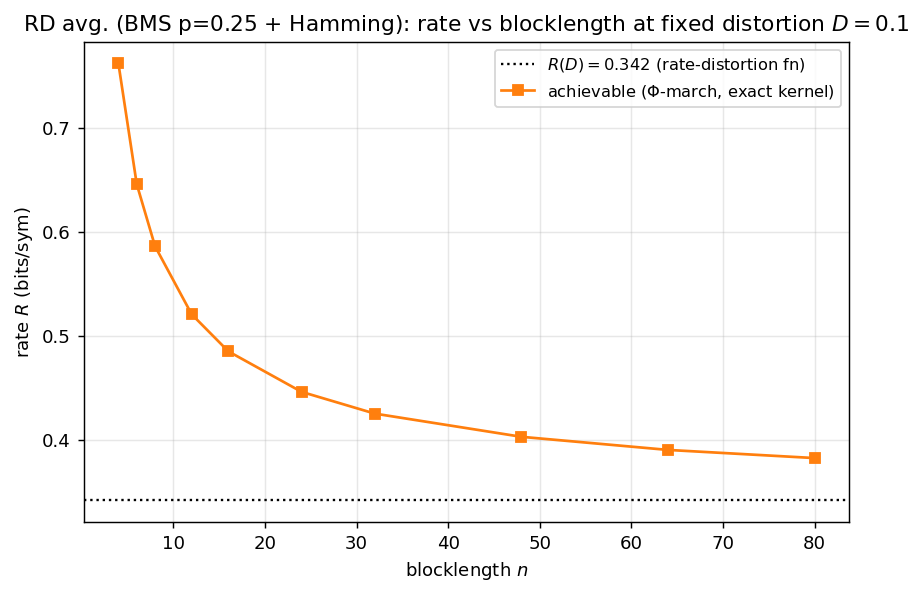
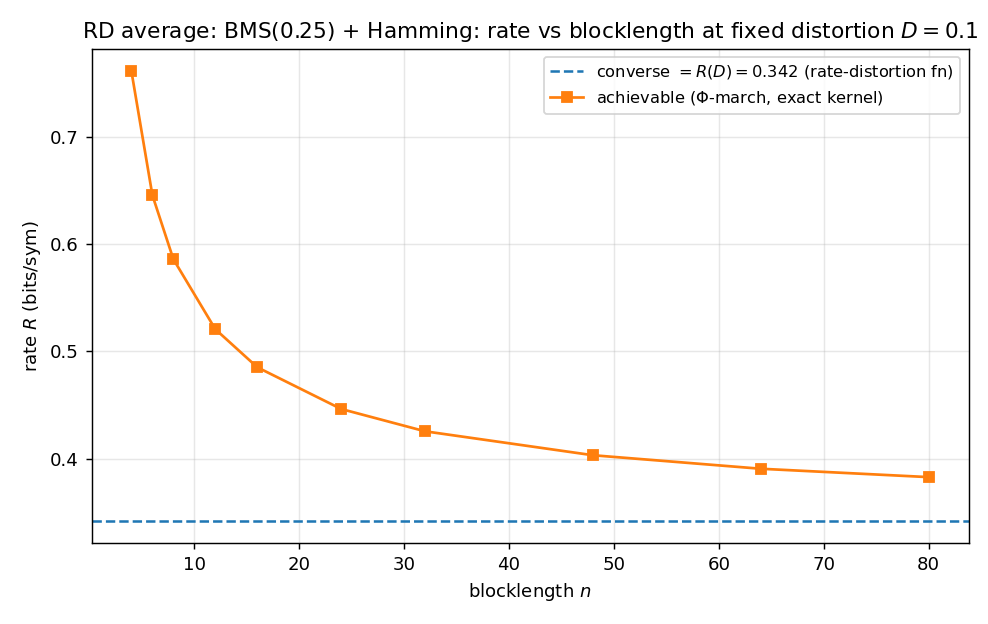
rate-vs-n: two eps for channel; relabel RD converse as R(D)
Channel rate_vs_n: now plots two targets eps=1e-2 and 1e-3 on one axis
(same colour per eps; converse solid, achievable dashed). The looser
eps=1e-2 pair is higher and tighter (gap ~0.10 vs ~0.13 bits at n=28) and
lifts off R=0 sooner. n_list capped at 28.

RD rate_vs_n: the flat lower line IS the converse for average distortion --
R(D) is a valid rate lower bound at every blocklength (no first-order
n-dependent term; the dispersion is excess-distortion-only). Relabelled the
curve and added the justification in THEORY 4.1, results, and the writeup;
clarified optimize_prior is not a rate converse.

Docs: THEORY 4.1, results/channel + rd_average, writeup.tex/pdf. Figures
regenerated.

Changed region(s): [[0.0, 0.0303, 1.0, 0.9681], [0.243, 0.5748, 0.2733, 0.605]]

diff --git a/examples/gen_channel.py b/examples/gen_channel.py
@@ -229,33 +229,38 @@ def _rate_at_eps(err_of_Rb, eps, R_hi, iters=16):
     return lo
 
 
-def rate_vs_n(eps=1e-3, n_list=(4, 6, 8, 10, 14, 18, 22, 26, 30)):
-    """Fix the error probability eps; plot achievable (RCU+) and converse
-    (meta-converse) rate vs blocklength. BOTH points are a single solve per n --
-    the converse is one LP, the achievable is one convex program (no rate
-    bisection). Range capped at n=30: beyond that the cvxpy *build* explodes
-    (tens of thousands of constraints) and CLARABEL becomes unreliable -- the
-    single-solve removes the bisection factor but not cvxpy's compilation ceiling
-    (vectorising that build is the route to larger n; the NumPy march scales
-    further, as the RD figure shows)."""
-    C = _capacity_bits()
-    R_ach, R_conv = [], []
+def rate_vs_n(eps_list=(1e-2, 1e-3), n_list=(4, 6, 8, 12, 16, 20, 24, 28)):
+    """Fix the error probability; plot achievable (RCU+) and converse
+    (meta-converse) rate vs blocklength, for one or more eps. BOTH points are a
+    single solve per (n, eps) -- the converse is one LP, the achievable is one
+    convex program (no rate bisection). Range capped near n=30: beyond that the
+    cvxpy *build* explodes and CLARABEL becomes unreliable -- the single-solve
+    removes the bisection factor but not cvxpy's compilation ceiling (the NumPy
+    march scales further, as the RD figure shows). Looser eps -> the achievable
+    and converse curves are closer."""
     import time
-    for n in n_list:
-        t = time.time()
-        aqp = AchievabilityQP(W, n)
-        R_ach.append(max(0.0, aqp.achievable_rate_at_eps(eps) / LN2))      # 1 convex prog
-        R_conv.append(TypeBasedChannel(W, n).converse_rate_at_eps(eps) / LN2)  # 1 LP
-        print(f"  n={n}: R_ach={R_ach[-1]:.4f}  R_conv={R_conv[-1]:.4f}  "
-              f"(C={C:.4f}, {time.time()-t:.1f}s)", flush=True)
+    C = _capacity_bits()
+    colors = {0: "C0", 1: "C2", 2: "C3"}
 
-    fig, ax = plt.subplots(figsize=(7.6, 4.8))
+    fig, ax = plt.subplots(figsize=(7.8, 5.0))
     ax.axhline(C, color="k", ls=":", lw=1.3, label=f"capacity $C={C:.3f}$")
-    ax.plot(n_list, R_conv, "^-", color="C0", label=r"converse (single LP)")
-    ax.plot(n_list, R_ach, "s-", color="C1", label=r"achievable RCU$^+$ (single convex program)")
+    for i, eps in enumerate(eps_list):
+        R_ach, R_conv = [], []
+        for n in n_list:
+            t = time.time()
+            R_ach.append(max(0.0, AchievabilityQP(W, n).achievable_rate_at_eps(eps) / LN2))
+            R_conv.append(TypeBasedChannel(W, n).converse_rate_at_eps(eps) / LN2)
+            print(f"  eps={eps:g} n={n}: R_ach={R_ach[-1]:.4f} R_conv={R_conv[-1]:.4f} "
+                  f"({time.time()-t:.1f}s)", flush=True)
+        col = colors[i]
+        ax.plot(n_list, R_conv, "^-", color=col, label=fr"converse, $\epsilon={eps:g}$")
+        ax.plot(n_list, R_ach, "s--", color=col,
+                label=fr"achievable RCU$^+$, $\epsilon={eps:g}$")
+
     ax.set_xlabel("blocklength $n$"); ax.set_ylabel("rate $R$ (bits/use)")
-    ax.set_title(f"{TITLE}: rate vs blocklength at fixed $P_e=\\epsilon={eps:g}$")
-    ax.legend(fontsize=9); ax.grid(True, alpha=0.3)
+    ax.set_title(f"{TITLE}: rate vs blocklength at fixed $P_e$ "
+                 f"(single LP / convex program per point)")
+    ax.legend(fontsize=8.5, ncol=2); ax.grid(True, alpha=0.3)
     return save(fig, f"{PREFIX}_rate_vs_n.png")
 
 

diff --git a/docs/writeup.tex b/docs/writeup.tex
@@ -189,11 +189,13 @@ at low rate, $\to 0$ at high rate. The optimum is nearly i.i.d.}
 \end{figure}
 \begin{figure}[H]\centering
 \includegraphics[width=0.66\textwidth]{channel_rate_vs_n.png}
-\caption{The complementary view: fix $P_e=\epsilon=10^{-3}$ and plot rate vs.\
-blocklength. Both points are a \emph{single solve}: the converse is one LP and the
-achievable RCU$^+$ is one convex program (the threshold $w=e^{-R}$ enters as
-quad-over-linear). They bracket the $\epsilon$-capacity and rise toward $C$; capped
-at $n=30$ by cvxpy's compilation ceiling.}
+\caption{The complementary view: fix $P_e$ and plot rate vs.\ blocklength, for two
+targets $\epsilon=10^{-2},10^{-3}$ (same colour $=$ same $\epsilon$; solid $=$
+converse, dashed $=$ achievable). Both points are a \emph{single solve}: the
+converse is one LP and the achievable RCU$^+$ is one convex program (the threshold
+$w=e^{-R}$ enters as quad-over-linear). They bracket the $\epsilon$-capacity and
+rise toward $C$; the looser $\epsilon=10^{-2}$ pair is higher and tighter. Capped at
+$n=28$ by cvxpy's compilation ceiling.}
 \end{figure}
 
 \subsection{Rate--distortion, average --- BMS$(0.25)$ + Hamming}
@@ -228,9 +230,11 @@ marginalization cost is $\approx6.5\%$; the optimum is still essentially i.i.d.}
 \begin{figure}[H]\centering
 \includegraphics[width=0.66\textwidth]{rd_avg_rate_vs_n.png}
 \caption{Rate vs.\ blocklength at fixed distortion $D=0.1$: the achievable rate
-converges from above to the rate-distortion function $R(D)=H(p)-H(D)=0.342$.
-The inversion uses the pure-NumPy march (bisection on the rate), which scales to
-$n=80$ -- past the channel's single-cvxpy ceiling.}
+converges from above to the \emph{converse}, which for average distortion is the
+rate-distortion function $R(D)=H(p)-H(D)=0.342$ (a valid lower bound at every $n$;
+its dispersion term vanishes for average $D$). The inversion uses the pure-NumPy
+march (bisection on the rate), which scales to $n=80$ -- past the channel's
+single-cvxpy ceiling.}
 \end{figure}
 
 \subsection{Rate--distortion, excess --- BMS$(0.25)$, $T=1$, $n=6$}

diff --git a/examples/gen_rd_average.py b/examples/gen_rd_average.py
@@ -212,9 +212,11 @@ def rate_vs_n(D_target=0.1, n_list=(4, 6, 8, 12, 16, 24, 32, 48, 64, 80)):
     point uses the Phi-view march (pure NumPy, no cvxpy) inverted by bisection on
     the rate, so it scales to large n.
 
-    (No converse curve here: for RD the lossy meta-converse rate is a separate
-    construction -- the type-based optimize_prior returns the single-threshold
-    *prior's distortion*, an achievability-side quantity, not a rate converse.)"""
+    The CONVERSE here is R(D) itself: for *average* distortion the rate-distortion
+    function is a valid converse at every blocklength (any code with E[d]<=D needs
+    rate >= R(D)), so it is the flat lower line the achievable converges down to.
+    Unlike channel coding it has no first-order n-dependent term -- that dispersion
+    appears only for the excess-distortion *probability*, not for average D."""
     import time
     RD = max(0.0, _hb(P) - _hb(D_target))            # R(D)=H(p)-H(D) for D<=p
     R_ach = []
@@ -234,7 +236,8 @@ def rate_vs_n(D_target=0.1, n_list=(4, 6, 8, 12, 16, 24, 32, 48, 64, 80)):
               flush=True)
 
     fig, ax = plt.subplots(figsize=(7.6, 4.8))
-    ax.axhline(RD, color="k", ls=":", lw=1.3, label=f"$R(D)={RD:.3f}$ (rate-distortion fn)")
+    ax.axhline(RD, color="C0", ls="--", lw=1.4,
+               label=f"converse $=R(D)={RD:.3f}$ (rate-distortion fn)")
     ax.plot(n_list, R_ach, "s-", color="C1", label=r"achievable ($\Phi$-march, exact kernel)")
     ax.set_xlabel("blocklength $n$"); ax.set_ylabel("rate $R$ (bits/sym)")
     ax.set_title(f"{TITLE}: rate vs blocklength at fixed distortion $D={D_target}$")

diff --git a/results/rd_average.md b/results/rd_average.md
@@ -62,14 +62,19 @@ channel, but the optimum is still essentially i.i.d.
 ![rate vs n](../examples/figures/rd_avg_rate_vs_n.png)
 
 The complementary view: **fix the average distortion `D=0.1` and plot the
-achievable rate vs blocklength**, converging from above to the rate-distortion
-function `R(D)=H(p)−H(D)=0.342` bits/sym. Each point inverts the bound by bisection
-on the rate using the **Φ-view march** — which is *pure NumPy* (no cvxpy), so it
-**scales to large `n`: this curve reaches `n=80`** (where the channel single-cvxpy
-inversion stalls near `n≈30–40`). The march per-point does get slow at large `n`
-(the gradient is a Python loop over type-blocks), so this figure is opt-in
-(`gen_rd_average.rate_vs_n`), not part of the default suite.
+achievable rate vs blocklength**, converging from above to the **converse**, which
+for average distortion *is* the rate-distortion function `R(D)=H(p)−H(D)=0.342`
+bits/sym. Each achievable point inverts the bound by bisection on the rate using the
+**Φ-view march** — which is *pure NumPy* (no cvxpy), so it **scales to large `n`:
+this curve reaches `n=80`** (where the channel single-cvxpy inversion stalls near
+`n≈30–40`). The march per-point does get slow at large `n` (the gradient is a Python
+loop over type-blocks), so this figure is opt-in (`gen_rd_average.rate_vs_n`), not
+part of the default suite.
 
-> No converse curve here: for RD the lossy meta-converse *rate* is a separate
-> construction; the type-based `optimize_prior` returns the single-threshold
-> *prior's distortion* (an achievability-side quantity), not a rate converse.
+> **Why `R(D)` is the converse.** For *average* distortion, any code with `E[d]≤D`
+> needs rate `≥ R(D)` at **every** blocklength, so `R(D)` is a valid converse lower
+> bound the achievable converges down to — the flat lower line in the figure. Unlike
+> channel coding it has no first-order `n`-dependent term: that dispersion
+> (`√(V/n)·Q⁻¹(ε)`) appears only for the excess-distortion *probability*, not for
+> average `D`. (The type-based `optimize_prior` is *not* a rate converse — it returns
+> the single-threshold prior's distortion, which in fact *decreases* with `n`.)

diff --git a/results/channel.md b/results/channel.md
@@ -82,10 +82,15 @@ is already nearly i.i.d., so the non-product structure is worth only a few perce
 
 ![rate vs n](../examples/figures/channel_rate_vs_n.png)
 
-The complementary view to G1–G5: **fix the error probability `ε=10⁻³` and plot the
-rate vs blocklength.** The **converse** and **achievable** rates bracket the true
-`ε`-capacity and both rise toward capacity `C=0.763`. Crucially **each point is a
-single solve, not a rate sweep**:
+The complementary view to G1–G5: **fix the error probability and plot the rate vs
+blocklength**, here for **two targets `ε=10⁻²` and `ε=10⁻³`** (same color = same
+`ε`; `▲` solid = converse, `■` dashed = achievable). The **converse** and
+**achievable** rates bracket the true `ε`-capacity and both rise toward capacity
+`C=0.763`; the looser `ε=10⁻²` pair sits higher and **noticeably tighter** — at
+`n=28` the gap is ≈0.10 bits (`0.477` vs `0.574`) against ≈0.13 for `ε=10⁻³`
+(`0.355` vs `0.486`) — you can afford more codewords at the same `n` when more error
+is tolerated, and the achievable also lifts off `R=0` sooner (`n≈8` vs `n≈16`).
+Crucially **each point is a single solve, not a rate sweep**:
 - converse — one **LP** (`TypeBasedChannel.converse_rate_at_eps(ε)`): `min w` s.t.
   success `≥ 1−ε`, the ramp being PWL in `(σ,w)`;
 - achievable — one **convex program** (`AchievabilityQP.achievable_rate_at_eps(ε)`):
@@ -93,9 +98,9 @@ single solve, not a rate sweep**:
   so `min w` s.t. success `≥ 1−ε` is convex (QP/SOCP).
 
 Both are ~20× faster than rate-bisection and verified to match it. **How large can
-`n` go?** Capped here at `n=30`: the single-solve removes the bisection factor but
+`n` go?** Capped here at `n=28`: the single-solve removes the bisection factor but
 not cvxpy's *compilation* ceiling — beyond `n≈30–40` the build explodes (tens of
 thousands of constraints) and CLARABEL becomes unreliable. Vectorising the cvxpy
 build is the route further; the pure-NumPy march scales past it (see the RD figure,
-`n=80`). At small `n` the achievable is conservative (at `ε=10⁻³` you can barely add
-a second codeword until `n≈12`) — the genuine finite-blocklength regime.
+`n=80`). At small `n` the achievable is conservative — the genuine
+finite-blocklength regime.

diff --git a/docs/THEORY.md b/docs/THEORY.md
@@ -181,6 +181,16 @@ concave in `(σ,w)`; there the inversion stays a **bisection on `w`** with one c
 march per step (still cheap, warm-started). The RCU⁺ ramp is special because its
 `w`-dependence is quadratic-over-linear.
 
+**The converse for average distortion.** Inverting the achievable RD bound (above)
+gives the achievable rate at fixed `D`. Its matching **converse is the
+rate-distortion function `R(D)` itself**: any code with `E[d]≤D` needs rate `≥ R(D)`
+at *every* blocklength, so `R(D)` is a valid lower bound the achievable converges
+down to — but flat, with no first-order `n`-dependent term (the dispersion
+`√(V/n)·Q⁻¹(ε)` exists only for the excess-distortion *probability*, not average
+`D`). Note this is **not** what `optimize_prior` returns for RD: that is the
+single-threshold prior's *distortion* (an achievability-side quantity that decreases
+with `n`), not a rate converse.
+
 ---
 
 ## 5. The three settings, specialised